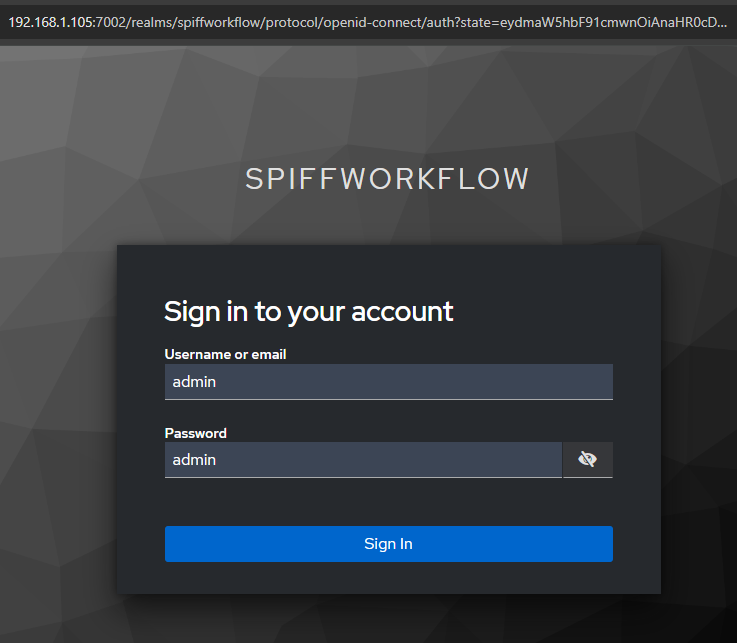
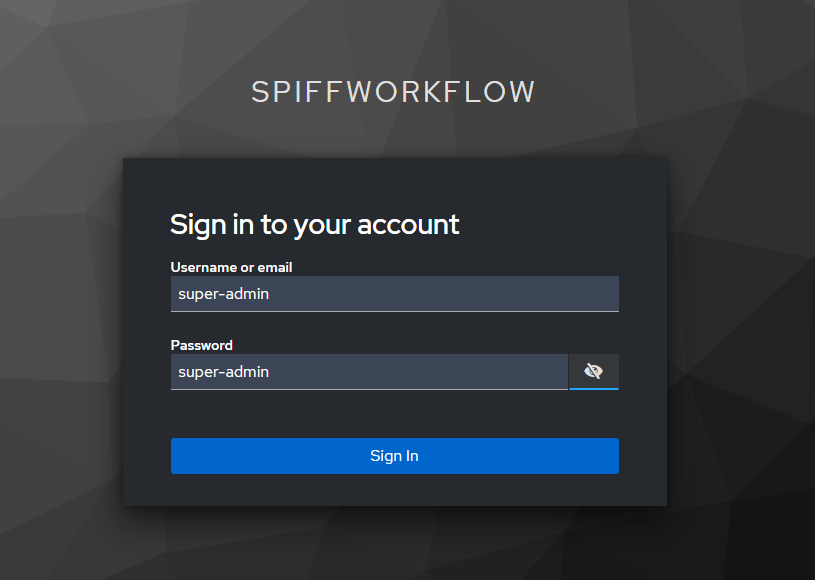
updated README.md

diff --git a/README.md b/README.md
@@ -158,11 +158,10 @@ Click on "Keycloak master" and then on "Create a realm".
     <img src="./docs/images/keycloak-realm-settings-1.png" />
 </div>
 
-Browse or copy the content of `m8flow/spiffworkflow-backend/keycloak/realm_exports/spiffworkflow-basic-realm.json` and click on "Create".
+Browse or copy the content of `m8flow/extensions/m8flow-backend/keycloak/realm_exports/m8flow-rbac-realm.json` and click on "Create".
 <div align="center">
     <img src="./docs/images/keycloak-realm-settings-2.png" />
 </div>
-
 
 ### Configure Client
 
@@ -246,7 +245,15 @@ Running a specific test:
 
 ## Access the application 
 
-Open `http://<LOCAL_IP>:8001/` on your browser and you are going to be redirected to keycloak authentication. Now enter temporary credentials: user `admin` password `admin`.
+Open `http://<LOCAL_IP>:8001/` on your browser and you are going to be redirected to keycloak authentication. Now use of the test users (password is same as username):
+
+- super-admin
+- tenant-admin
+- editor
+- viewer
+- integrator
+- reviewer
+
 <div align="center">
     <img src="./docs/images/access-m8flow-1.png" />
 </div>
